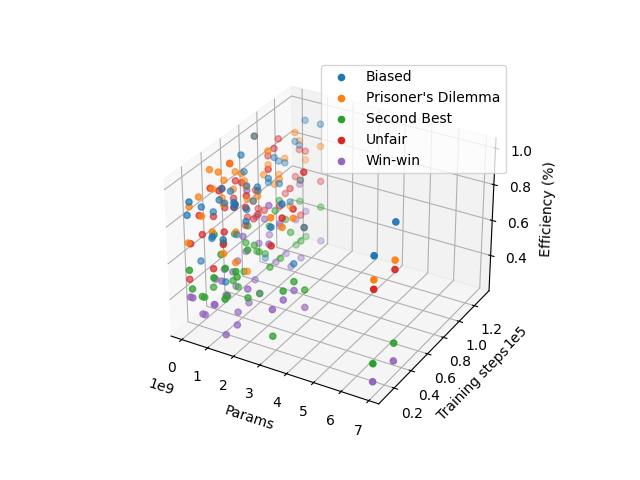
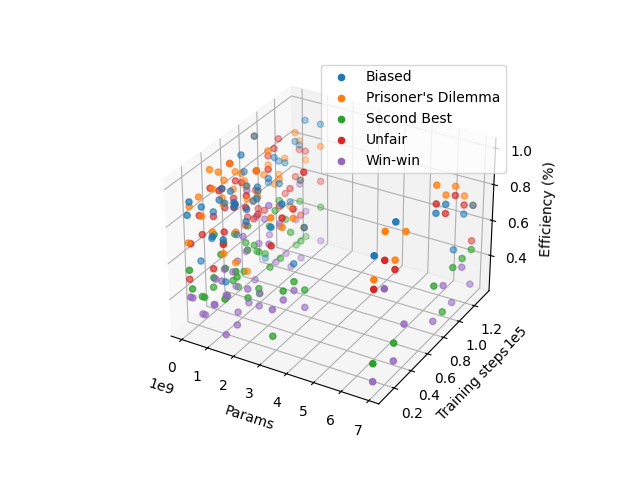
feat: final

diff --git a/cooperation_scaling/analysis.py b/cooperation_scaling/analysis.py
@@ -2,7 +2,12 @@ import pandas as pd
 import matplotlib.pyplot as plt
 import seaborn as sns
 from pathlib import Path
-import matplotlib.animation as animation
+
+
+from matplotlib import pyplot as plt
+from mpl_toolkits.mplot3d import Axes3D
+from matplotlib.colors import ListedColormap
+
 
 
 ROOT_PATH = Path(__file__).parent.parent
@@ -77,18 +82,16 @@ noisy_games["defection_rate_p2"] = noisy_games["moves"].apply(lambda moves: sum(
 # Filter to prisoner's dilemma games
 prisoners_dilemma_games = noisy_games[noisy_games["family"] == "Prisoner's Dilemma"]
 
-# 3d scatterplot of `params`, `training_steps`, `defection_rate_p1`, hue=`noise`
+# 3d scatterplot of `params`, `training_steps`, `defection_rate_p1`
 fig = plt.figure()
 ax = fig.add_subplot(projection='3d')
 
-# Draw points for each noise value
-for noise_value, noise_df in prisoners_dilemma_games.groupby("noise"):
-    ax.scatter(
-        noise_df["params"],
-        noise_df["training_steps"],
-        noise_df["defection_rate_p1"],
-        label=f"{noise_value:.2f}",
-    )
+ax.scatter(
+    prisoners_dilemma_games["params"],
+    prisoners_dilemma_games["training_steps"],
+    prisoners_dilemma_games["defection_rate_p1"],
+    label="Player 1",
+)
 
 # Use scientific notation for the x and y ticks
 ax.ticklabel_format(style='sci', scilimits=(0,0), axis='x')
@@ -99,3 +102,53 @@ ax.set_ylabel("Training steps")
 ax.set_zlabel("Defection rate")
 ax.legend()
 plt.savefig(ROOT_PATH / "plots" / "noisy" / "params_vs_training_steps_vs_defection_rate_p1_3d_scatterplot2.png")
+
+# 3D scatterplot of `params`, `training_steps`, `efficiency`, hue=`family`
+fig = plt.figure(figsize=(6,6))
+ax = fig.add_subplot(projection='3d')
+
+# Draw points for each family
+for family_name, family_df in noisy_games.groupby("family"):
+    ax.scatter(
+        family_df["params"],
+        family_df["training_steps"],
+        family_df["efficiency"],
+        label=family_name,
+    )
+
+# Use scientific notation for the x and y ticks
+ax.ticklabel_format(style='sci', scilimits=(0,0), axis='x')
+ax.ticklabel_format(style='sci', scilimits=(0,0), axis='y')
+# Label each axis
+ax.set_xlabel("Params")
+ax.set_ylabel("Training steps")
+ax.set_zlabel("Efficiency (%)")
+ax.legend()
+plt.savefig(ROOT_PATH / "plots" / "noisy" / "params_vs_training_steps_vs_efficiency_3d_scatterplot3.png")
+
+# Get unique color for the points in this family
+cmap = ListedColormap(sns.color_palette("husl", n_colors=10).as_hex())
+
+# Generate one 3D scatter per family, with different colors for each
+for i, (family_name, family_df) in enumerate(noisy_games.groupby("family")):
+    fig = plt.figure(figsize=(6,6))
+    ax = fig.add_subplot(projection='3d')
+    
+
+    ax.scatter(
+        family_df["params"],
+        family_df["training_steps"],
+        family_df["efficiency"],
+        label=family_name,
+        color=cmap(i),
+    )
+
+    # Use scientific notation for the x and y ticks
+    ax.ticklabel_format(style='sci', scilimits=(0,0), axis='x')
+    ax.ticklabel_format(style='sci', scilimits=(0,0), axis='y')
+    # Label each axis
+    ax.set_xlabel("Params")
+    ax.set_ylabel("Training steps")
+    ax.set_zlabel("Efficiency (%)")
+    ax.legend()
+    plt.savefig(ROOT_PATH / "plots" / "noisy" / "families" / f"{family_name}_params_vs_training_steps_vs_efficiency_3d_scatterplot.png")

diff --git a/cooperation_scaling/prefetch_models.py b/cooperation_scaling/prefetch_models.py
@@ -1,8 +1,10 @@
 from pathlib import Path
+from torch import device
 from transformers import GPTNeoXForCausalLM, AutoTokenizer
 from multiprocessing.pool import ThreadPool
 from functools import partial
 from tqdm import tqdm
+import os
 
 ROOT_PATH = Path(__file__).parent.parent
 DATA_PATH = ROOT_PATH / "data"
@@ -29,15 +31,21 @@ models_to_use: list[str] = [
 
 
 def fetch_model_to_cache(model: tuple[str, str], cache_dir: Path):
+    print(f"Fetching {model}")
     model_id, revision = model
     cache_dir = ROOT_PATH / ".model_cache" / model_id / revision
-    if cache_dir.exists():
+    
+    if len(list(os.scandir(cache_dir))) > 1:
+        print(f"Skipping {model}, already exists")
         return None
     
     GPTNeoXForCausalLM.from_pretrained(
         model_id,
         revision=revision,
         cache_dir=cache_dir,
+        low_cpu_mem_usage=True,
+        resume_download=True,
+        device_map=None
     )
     AutoTokenizer.from_pretrained(
         model_id, revision=revision, cache_dir=cache_dir, padding_side="left"
@@ -48,6 +56,6 @@ def fetch_model_to_cache(model: tuple[str, str], cache_dir: Path):
 
 # Multithreaded fetch of all models
 
-with ThreadPool(8) as pool:
+with ThreadPool(1) as pool:
     models = [(model, revision) for model in models_to_use for revision in REVISIONS]
     list(tqdm(pool.imap_unordered(partial(fetch_model_to_cache, cache_dir=ROOT_PATH / ".model_cache"), models), total=len(models)))

diff --git a/cooperation_scaling/prompts.py b/cooperation_scaling/prompts.py
@@ -125,10 +125,10 @@ def completion_to_option(
     # Strip, lowercase, and remove punctuation
     response = response.strip().lower().replace(".", "").replace(",", "")
 
-    if re.match(r"\boption\s+j\b", response) or re.match(r"\bj\b", response):
+    if re.match(r"\boption\s+j\b", response) or re.match(r"\bj\b", response) or "option j" in response:
         print(f"Matched {response} to {option_j}")
         return "J"
-    elif re.match(r"\boption\s+f\b", response) or re.match(r"\bf\b", response):
+    elif re.match(r"\boption\s+f\b", response) or re.match(r"\bf\b", response) or "option f" in response:
         print(f"Matched {response} to {option_f}")
         return "F"
     else:
